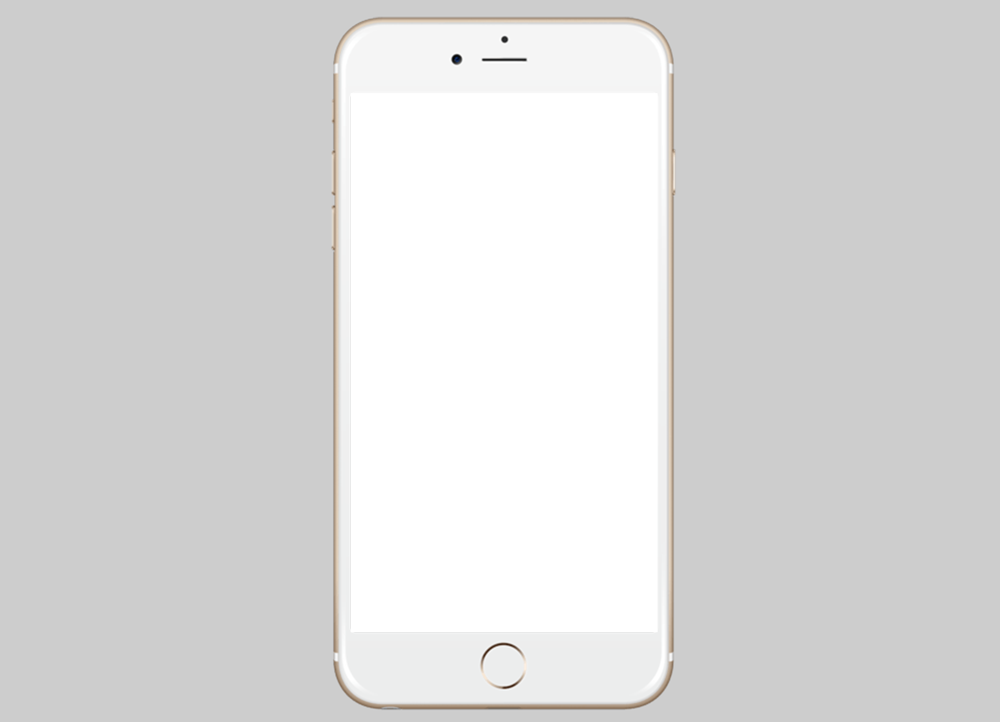
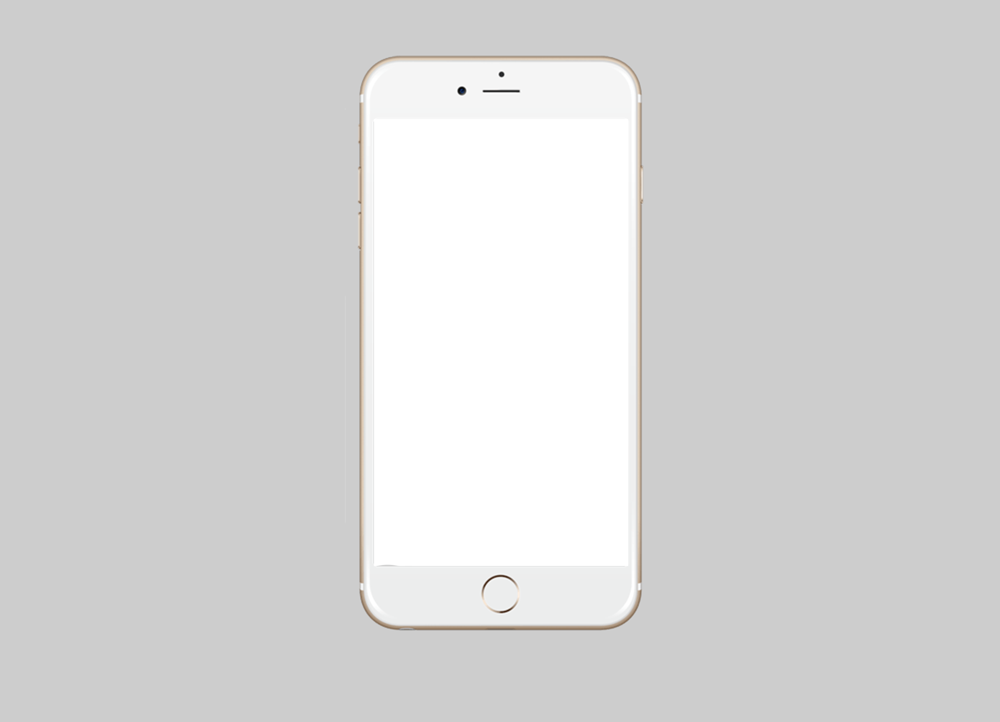
made some changes

Changed region(s): [[0.31, 0.0, 0.682, 1.0], [0.496, 0.1219, 0.527, 0.1524]]

diff --git a/scripts/scripts.js b/scripts/scripts.js
@@ -28,7 +28,8 @@ app.getHero = function (search) { //function to pull from API
 
         // $('.heroArt').css('background-image', 'url(' + userImage + ')');
 
-        $('.deviceBackground').css('background-image', 'url(' + userImage + ')');
+        $('.backgroundContainer').css('background-image', 'url(' + userImage + ')');
+        // $('.chosenBackground').attr('src', userImage);
 
         $('.finalBackgroundImage').html(`<a target="_blank" href=${userImage}>See background image</a>`)
 
@@ -59,7 +60,7 @@ app.getFont = function (font) {
         const fontFamily = fontCategory[randomFont].family;
         const fontLink = fontCategory[randomFont].files.regular;
 
-        $('h1').css('font-family', fontFamily);
+        $('.userHeader').css('font-family', fontFamily);
 
         // append the final font to the bottom of the page so that the user has all of the information to make their hero image 
 
@@ -91,17 +92,28 @@ app.events = function () {
   $('#deviceChoice').on('change', function () {
     const selectedDevice = $(this).val();
 
-    console.log(selectedDevice);
-    if (selectedDevice === "mobile") {
-      console.log("I chose the mobile device.");
-      $(".chosenDevice").css("background-image", "url(images/iphone-mockup.png)");
-    } else if (selectedDevice === "tablet") {
-      $(".chosenDevice").css("background-image", "url(images/ipad-mockup.png)");
-    } else if (selectedDevice === "desktop") {
-      $(".chosenDevice").css("background-image", "url(images/macbook-mockup.png)");
-    }
+  //   console.log(selectedDevice);
+  //   if (selectedDevice === "mobile") {
+  //     console.log("I chose the mobile device.");
+  //     $(".chosenDevice").css("background-image", "url(images/iphone-mockup.png)");
+  //   } else if (selectedDevice === "tablet") {
+  //     $(".chosenDevice").css("background-image", "url(images/ipad-mockup.png)");
+  //   } else if (selectedDevice === "desktop") {
+  //     $(".chosenDevice").css("background-image", "url(images/macbook-mockup.png)");
+  //   }
 
-  })
+  // })
+
+  console.log(selectedDevice);
+  if (selectedDevice === "mobile") {
+    console.log("I chose the mobile device.");
+    $(".deviceChosen").attr("src", "images/iphone-mockup.png");
+  } else if (selectedDevice === "tablet") {
+    $(".deviceChosen").attr("src", "images/ipad-mockup.png");
+  } else if (selectedDevice === "desktop") {
+    $(".deviceChosen").attr("src", "images/macbook-mockup.png");
+  }
+})
 
 
    
@@ -127,8 +139,8 @@ $(function () {
     const textInput = $('input[type=text]')
     const usersInput = textInput.val();
     // clear the header and the user input with each 'submit'
-    $('h1').empty();
-    $('h1').append(usersInput);
+    $('.userHeader').empty();
+    $('.userHeader').append(usersInput);
     textInput.val('');
 
   })
@@ -136,7 +148,7 @@ $(function () {
   $('.submitColourForm').on('click', function (e) {
     e.preventDefault();
     const colourInput = $('input[type=color]').val();
-    $('h1').css('color', colourInput);
+    $('.userHeader').css('color', colourInput);
     $('.finalTextColour').html(colourInput);
   })
 });

diff --git a/styles/_results.scss b/styles/_results.scss
@@ -1,32 +1,74 @@
 .chosenDevice {
     margin: 0 auto;
-    width: 100%;
-    height: 75vh;;
+    // width: 100%;
     position: relative;
-    background-image: url(../images/macbook-mockup.png);
+    text-align: center;
+    background-image: url('');
     background-position: center center;
-    background-size: cover ;
-    background-repeat: no-repeat;
-    display: flex;
-    justify-content: center;
-    align-items: center;
-    h1 {
-        font-size: 4vw;
+    width: 100%;
+
+    & .backgroundContainer {
+        margin: 0 auto;
+        width: 75%;
+        text-align: center;
+        line-height: 520px;
+        // border: 1px solid red;
+        // z-index: -1;
+        background-size: cover;
+        background-position: center center;
+        height: 520px;
+        position: absolute;
+        border: 1px solid red;
+        top: 10%;
+        left: 12%;
+        @media (max-width: 1050px) {
+            height: 420px;
+            line-height: 420px;
+        }
+
+        @media(max-width: 890px) {
+            // left: 75px;
+            height: 350px;
+            line-height: 350px;
+        }
+
+        @media (max-width: 680px) {
+            height: 280px;
+            // left: 50px;
+            line-height: 280px;
+        }
+
+        @media (max-width: 550px) {
+            height: 250px;
+            top: 0;
+            line-height: 250px;
+        }
+
+        @media (max-width: 430px) {
+           left: 0;
+           line-height: 200px;
+            height: 80%;
+            width: 100%;
+        }
     }
 
+
+
+
 }
-.device-bg-container {
-    position: relative;
-    .deviceBackground {
-        position: absolute;
-        top: 0;
-        z-index: -1;
-        width: 100%;
-        height: 80vh;
-        background-size: cover;
+// .device-bg-container {
+//     position: relative;
+//     .deviceBackground {
+//         position: absolute;
+//         top: 0;
+//         z-index: -1;
+        // width: 80%;
+        // height: 80vh;
+        // margin: 0 auto;
+        // background-size: cover;
         /* background-image: url(../images/leaf.jpeg); */
-        background-position: center center;
-        background-size: cover;
-    }
-}
+//         background-position: center center;
+//         background-size: cover;
+//     }
+// }
 

diff --git a/styles/styles.css b/styles/styles.css
@@ -281,38 +281,48 @@ p {
 
 .chosenDevice {
   margin: 0 auto;
-  width: 100%;
-  height: 75vh;
   position: relative;
-  background-image: url(../images/macbook-mockup.png);
+  text-align: center;
+  background-image: url("");
   background-position: center center;
-  background-size: cover;
-  background-repeat: no-repeat;
-  display: -webkit-box;
-  display: -ms-flexbox;
-  display: flex;
-  -webkit-box-pack: center;
-  -ms-flex-pack: center;
-  justify-content: center;
-  -webkit-box-align: center;
-  -ms-flex-align: center;
-  align-items: center; }
-  .chosenDevice h1 {
-    font-size: 4vw; }
-
-.device-bg-container {
-  position: relative; }
-  .device-bg-container .deviceBackground {
-    position: absolute;
-    top: 0;
-    z-index: -1;
-    width: 100%;
-    height: 80vh;
+  width: 100%; }
+  .chosenDevice .backgroundContainer {
+    margin: 0 auto;
+    width: 75%;
+    text-align: center;
+    line-height: 520px;
     background-size: cover;
-    /* background-image: url(../images/leaf.jpeg); */
     background-position: center center;
-    background-size: cover; }
+    height: 520px;
+    position: absolute;
+    border: 1px solid red;
+    top: 10%;
+    left: 12%; }
+    @media (max-width: 1050px) {
+      .chosenDevice .backgroundContainer {
+        height: 420px;
+        line-height: 420px; } }
+    @media (max-width: 890px) {
+      .chosenDevice .backgroundContainer {
+        height: 350px;
+        line-height: 350px; } }
+    @media (max-width: 680px) {
+      .chosenDevice .backgroundContainer {
+        height: 280px;
+        line-height: 280px; } }
+    @media (max-width: 550px) {
+      .chosenDevice .backgroundContainer {
+        height: 250px;
+        top: 0;
+        line-height: 250px; } }
+    @media (max-width: 430px) {
+      .chosenDevice .backgroundContainer {
+        left: 0;
+        line-height: 200px;
+        height: 80%;
+        width: 100%; } }
 
+/* background-image: url(../images/leaf.jpeg); */
 select {
   text-align: center;
   text-transform: uppercase; }

diff --git a/index.html b/index.html
@@ -45,11 +45,15 @@
         </form>
         <div class="device-bg-container">
             <div class="chosenDevice">
-                    <img class="deviceChosen" src="" alt="">
-                    <h1>User Header</h1>
+                    <img class="deviceChosen" src="images/macbook-mockup.png" alt="">
+                    <div class="backgroundContainer">
+                        <h1 class="userHeader">User Header</h1>
+                    </div>
+                 
+                        <!-- <h1 class="userHeader">User Header</h1> -->
+    
             </div>
-            <div class="deviceBackground">
-            </div>
+            
         </div>
     
         <section class="inputs-container ">
